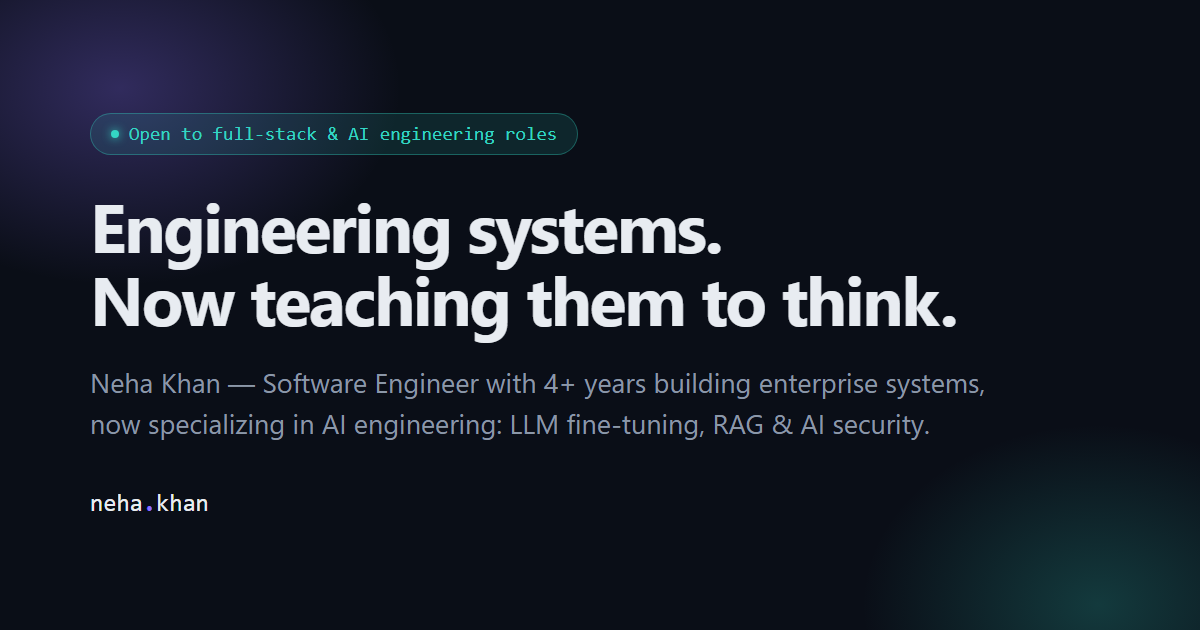
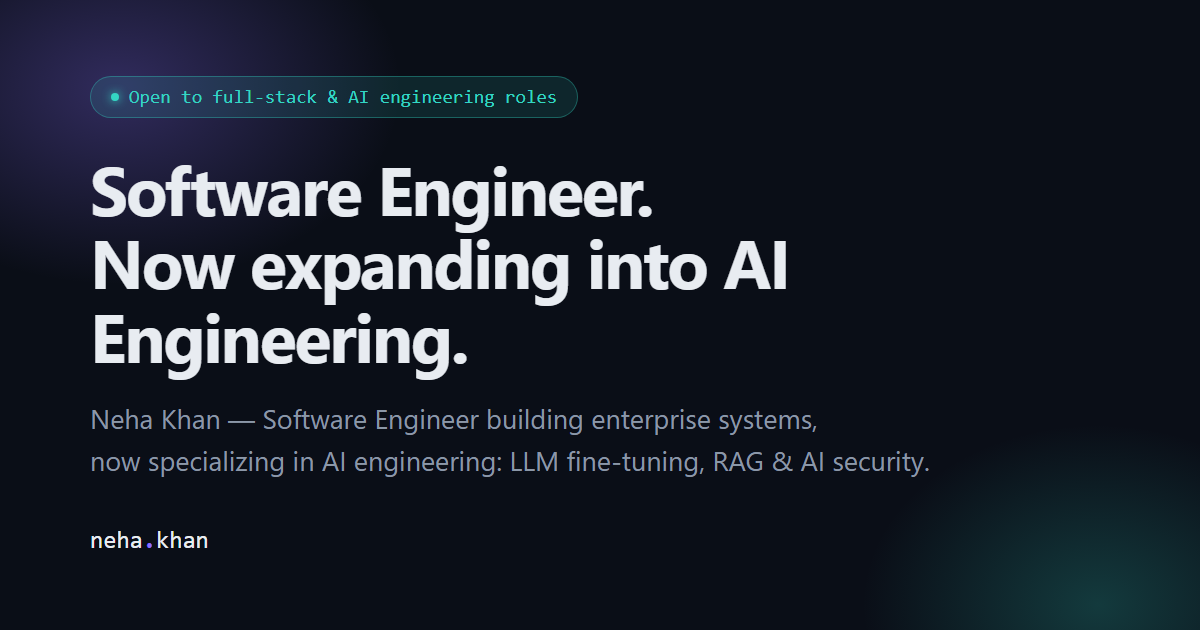
Fix hero headline framing and account for a career gap
- Replace the poetic "Engineering systems. Now teaching them to
  think." headline with grounded copy matching actual resume
  language: "Software Engineer. Now expanding into AI Engineering."
  Regenerated the OG preview image to match.
- Years-of-experience calculation now freezes at a Dec 2025 career
  break instead of continuing to climb during it, dropping the
  displayed figure from 4+ to 3+. Update the freeze date (or add a new
  segment) once back in a role.
- Retuned the hero heading's font size and max-width for the new,
  differently-shaped copy so it wraps into 3 clean lines clear of the
  network graphic instead of 5 cramped ones.

diff --git a/src/App.jsx b/src/App.jsx
@@ -366,8 +366,8 @@ export default function Portfolio() {
           <div className="inline-flex items-center gap-2 nk-mono text-xs mb-7" style={{ color: "var(--teal)", border: "1px solid rgba(52,214,196,0.3)", background: "var(--teal-soft)", padding: "6px 14px", borderRadius: "20px" }}>
             <span className="nk-dot" /> Open to full-stack &amp; AI engineering roles
           </div>
-          <h1 className="nk-sans" style={{ fontSize: "clamp(2.6rem, 6vw, 4.6rem)", fontWeight: 700, letterSpacing: "-0.03em", lineHeight: 1.05, maxWidth: "min(13ch, 560px)", color: "var(--text)" }}>
-            Engineering systems.<br />Now teaching them to think.
+          <h1 className="nk-sans" style={{ fontSize: "clamp(2.4rem, 5.2vw, 4.1rem)", fontWeight: 700, letterSpacing: "-0.03em", lineHeight: 1.1, maxWidth: "min(18ch, 640px)", color: "var(--text)" }}>
+            Software Engineer.<br />Now expanding into AI Engineering.
           </h1>
           <p className="mt-7 max-w-lg" style={{ color: "var(--text-dim)", fontSize: "1.1rem", lineHeight: 1.65 }}>
             {yearsExp}+ years building production backend systems — now going deep on LLM fine-tuning,

diff --git a/src/data.js b/src/data.js
@@ -14,10 +14,17 @@ export const profile = {
 // so the number stays accurate without ever needing a manual update.
 export const careerStart = new Date(2022, 1, 1); // Feb 2022 — Bytecorp
 
+// Career break starting Dec 2025 (after Sibisoft) — experience is frozen as
+// of this date rather than continuing to climb while not employed. Update
+// or remove this once back in a role, ideally by adding the new start date
+// to the calculation instead of just deleting the freeze.
+const careerBreakStart = new Date(2025, 11, 1); // Dec 2025
+
 export function getYearsOfExperience(from = careerStart, to = new Date()) {
-  let years = to.getFullYear() - from.getFullYear();
-  const monthDiff = to.getMonth() - from.getMonth();
-  if (monthDiff < 0 || (monthDiff === 0 && to.getDate() < from.getDate())) years--;
+  const effectiveTo = to < careerBreakStart ? to : careerBreakStart;
+  let years = effectiveTo.getFullYear() - from.getFullYear();
+  const monthDiff = effectiveTo.getMonth() - from.getMonth();
+  if (monthDiff < 0 || (monthDiff === 0 && effectiveTo.getDate() < from.getDate())) years--;
   return Math.max(years, 0);
 }
 
